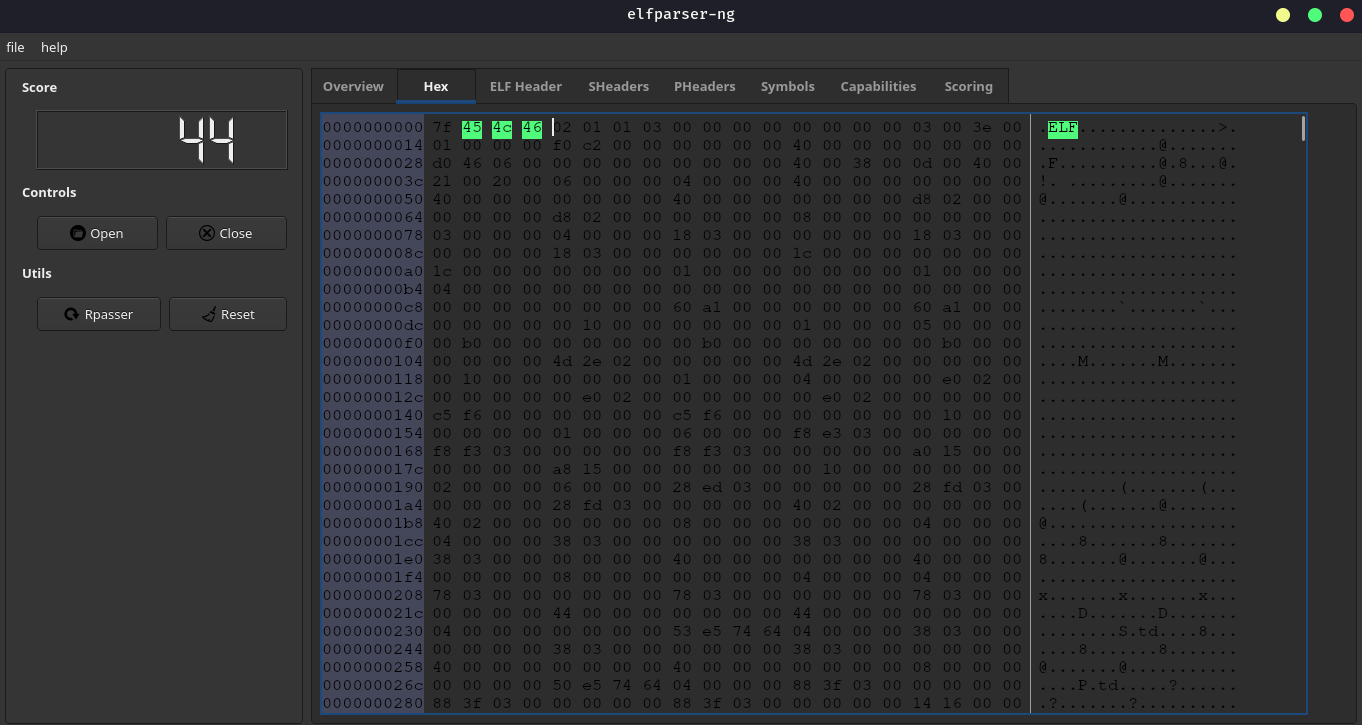
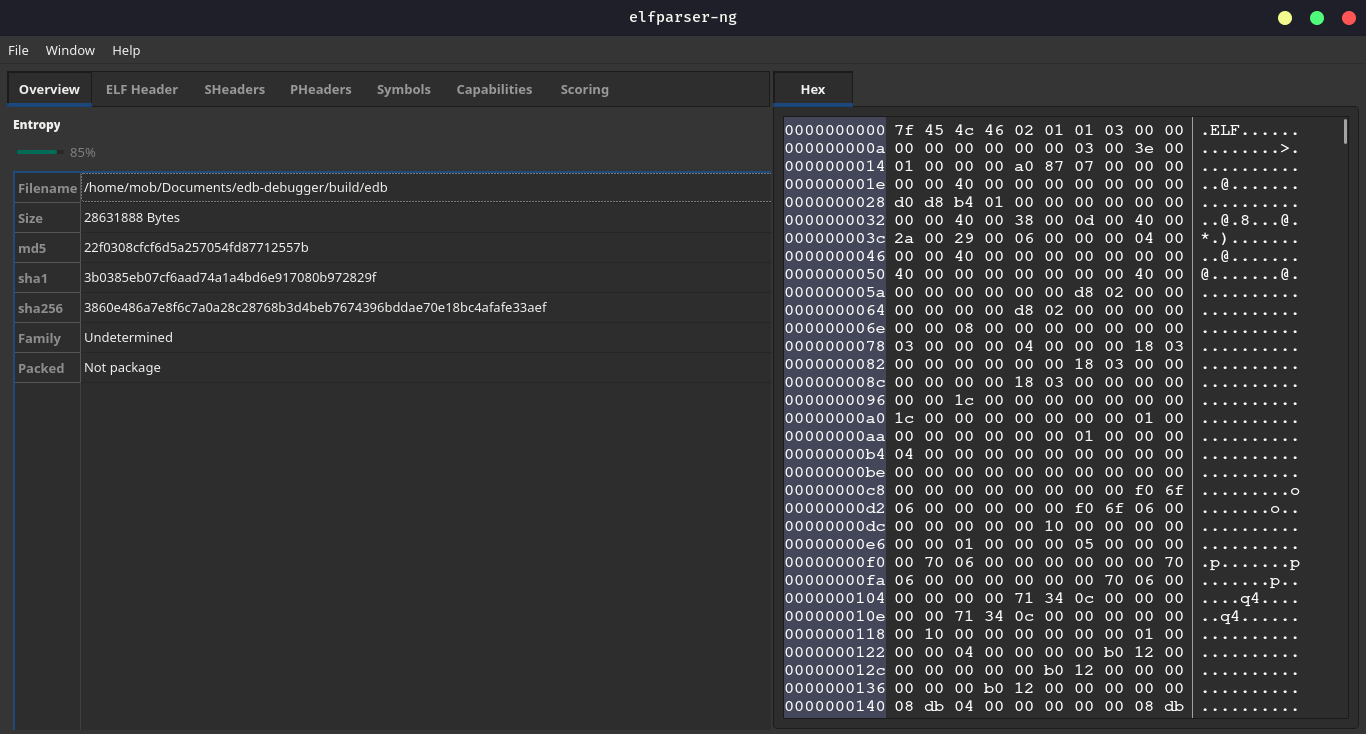
[UPD] update overview, yara verify family malware, utils

diff --git a/src/main.cpp b/src/main.cpp
@@ -99,13 +99,16 @@ void do_parsing(const std::string &p_fileName, bool p_printReasons,
 
     parser.evaluate();
 
-    std::cout << p_fileName << " - Score: " << parser.getScore();
+    std::cout << "Overview : " << std::endl <<  
+    " - Score: " << parser.getScore() << std::endl << 
+    " - Entropy: " << parser.getEntropy() << std::endl;
     if (!parser.getFamily().empty())
     {
-        std::cout <<"[Family: " << parser.getFamily() << "]" << std::endl << std::endl;
-        std::cout <<"[SHA256: " << std::hex << parser.getSha256() << " ]" << std::endl;
-        std::cout <<"[SHA1:   " << std::hex << parser.getSha1()   << " ]" << std::endl;
-        std::cout <<"[MD5:    " << std::hex << parser.getMD5()    << " ]" << std::endl << std::endl;
+        std::cout <<" - Family: " << parser.getFamily() << std::endl;
+        std::cout <<" - SHA256: " << std::hex << parser.getSha256() << std::endl;
+        std::cout <<" - SHA1:   " << std::hex << parser.getSha1() << std::endl;
+        std::cout <<" - MD5:    " << std::hex << parser.getMD5() << std::endl;
+        
     }
     if (p_printReasons)
         parser.printReasons();

diff --git a/src/ui/mainwindow.cpp b/src/ui/mainwindow.cpp
@@ -146,8 +146,8 @@ void MainWindow::parser(QString filename)
 
     // LCD display
     m_ui->scoreDisplay->display(static_cast<int>(m_parser->getScore()));
-	// Set entropy status load
-	m_ui->EntropyP->setValue(m_parser->getEntropy());
+    // Set entropy status load
+    m_ui->EntropyP->setValue(m_parser->getEntropy());
 
     // Overview table
     QTableWidgetItem *tableItem = new QTableWidgetItem(QString(m_parser->getFilename().c_str()));
@@ -168,10 +168,7 @@ void MainWindow::parser(QString filename)
     tableItem = new QTableWidgetItem(QString(m_parser->getFamily().c_str()));
     m_ui->overviewTable->setItem(5, 0, tableItem);
     m_tableItems.push_back(tableItem);
-	if(m_parser->getEntropy() < 7)
-		tableItem = new QTableWidgetItem(QString("Not package"));
-	else
-		tableItem = new QTableWidgetItem(QString("Binary package"));
+    tableItem = new QTableWidgetItem(QString(" "));
     m_ui->overviewTable->setItem(6, 0, tableItem);
     m_tableItems.push_back(tableItem);
 

diff --git a/src/abstract_segments.cpp b/src/abstract_segments.cpp
@@ -362,6 +362,7 @@ std::string AbstractSegments::determineFamily() const
 {
     const std::set<std::string>& files(getFiles());
 
+
 	if (files.find("kaiten.c") != files.end() || files.find("kaiten2.c") != files.end())
     {
         return "ELF.Kaiten";
